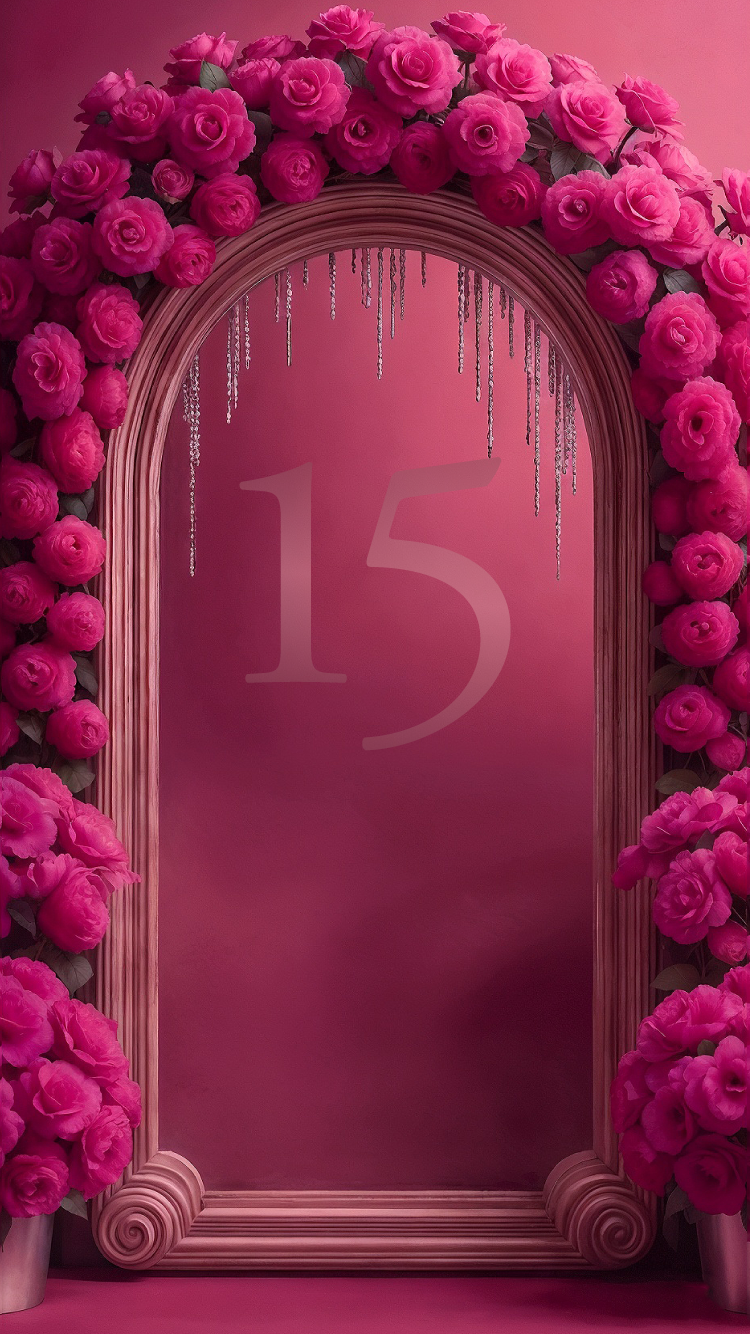
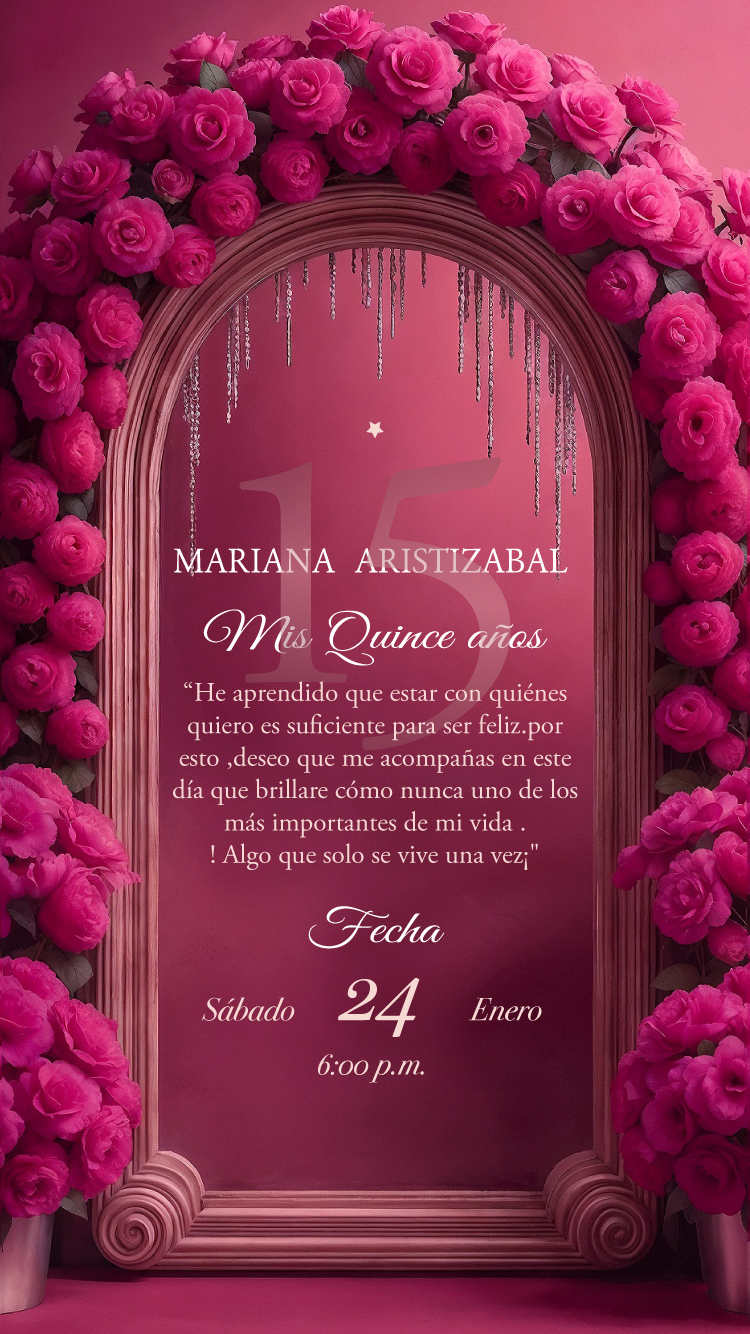
🎨 Cambiar fondo de tarjeta a tarjeta-maiana-15.png

diff --git a/tarjeta.html b/tarjeta.html
@@ -53,7 +53,7 @@
             max-height: 1334px;
             width: auto;
 
-            background-image: url('./fondo-maiana-15.jpg');
+            background-image: url('./tarjeta-maiana-15.png');
             background-size: cover;
             background-position: center top;
             background-repeat: no-repeat;
